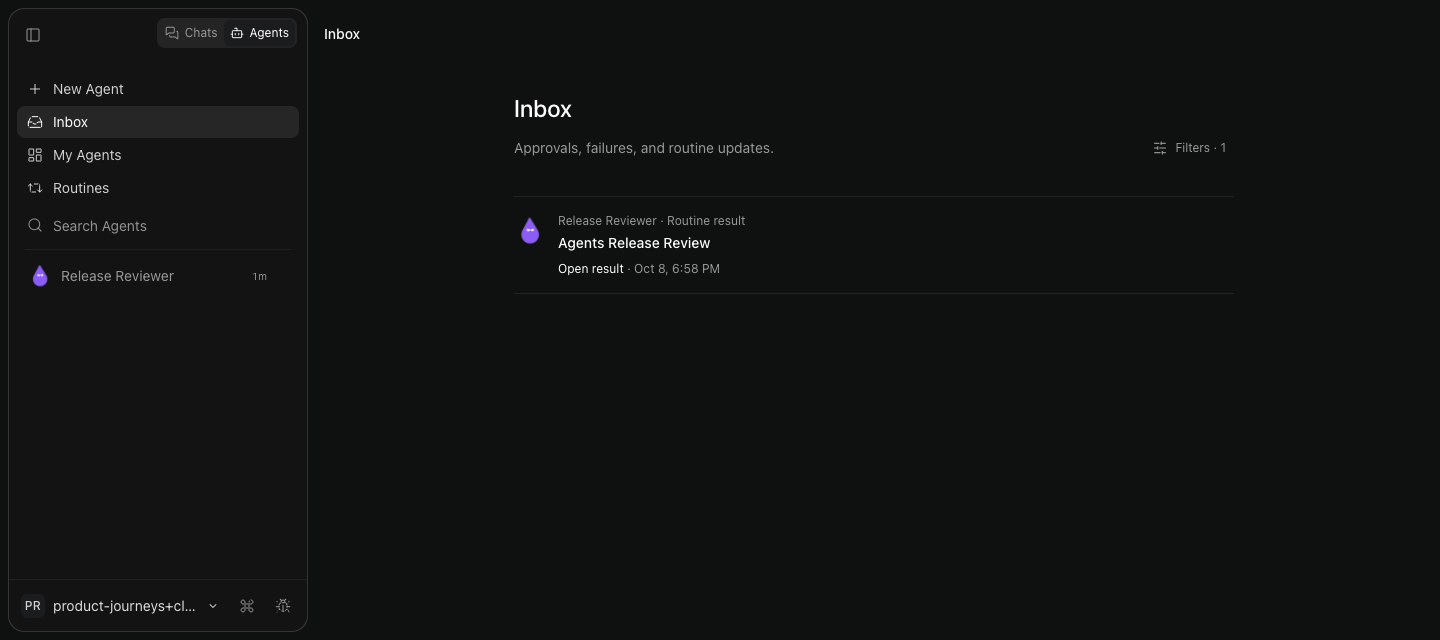
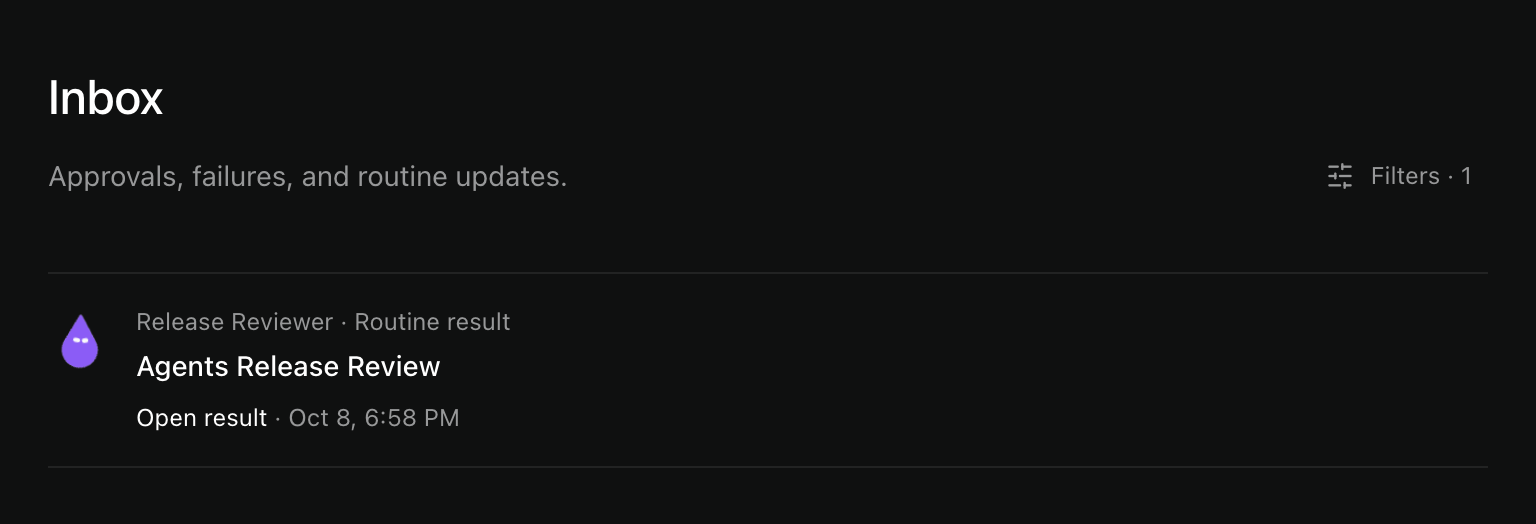
docs: improve Agent screenshot framing and readability

diff --git a/components/mintlify.tsx b/components/mintlify.tsx
@@ -213,12 +213,16 @@ export function AccordionGroup({ children }: { children: ReactNode }) {
 export function Frame({
   caption,
   children,
+  className,
 }: {
   caption?: ReactNode;
   children: ReactNode;
+  className?: string;
 }) {
   return (
-    <figure className="my-6 overflow-hidden rounded-xl border bg-fd-card p-2 not-prose">
+    <figure
+      className={cn('my-6 overflow-hidden rounded-xl border bg-fd-card p-2 not-prose', className)}
+    >
       <div className="overflow-hidden rounded-lg [&_img]:my-0 [&_img]:w-full">
         {children}
       </div>

diff --git a/README.md b/README.md
@@ -42,7 +42,7 @@ The reading path starts with one meeting-preparation task, then refinement and s
 
 Thirteen product screenshots come from these `dev` revisions running locally with a Clerk test account and real model calls. The first walkthrough uses clearly identified sample workshop notes, including a correction to the Agent's cost assumptions. Follow-up images show its saved Manager refinement, attached checklist, capabilities, schedule, library entry, and sharing choices. The sample morning routine was saved, captured, and paused. The sharing dialog was captured before publishing.
 
-The longer launch-review example used this documentation draft and its validation report. It covered file uploads, separate working sessions, Manager refinement, a one-time routine, and Inbox. Its completed sessions were renamed through the app to describe their assignments. Some images capture just the relevant dialog or section. No responses or product states were mocked. The cookie-consent dependency was built from its genuine `v1.0.0` source because private-registry access was unavailable.
+The longer launch-review example used this documentation draft and its validation report. It covered file uploads, separate working sessions, Manager refinement, a one-time routine, and Inbox. Its completed sessions were renamed through the app to describe their assignments. Screenshots use the relevant dialog, section, or narrower app window to keep text readable. The creation form was recaptured without submitting another Agent; conversation images show saved history. No responses or product states were mocked. The cookie-consent dependency was built from its genuine `v1.0.0` source because private-registry access was unavailable.
 
 Use source behavior over old release notes. Remove retired pages from navigation and add their replacements to `public/_redirects`, including markdown export URLs. Cloudflare Pages serves these redirects; Next's local dev server does not.
 
